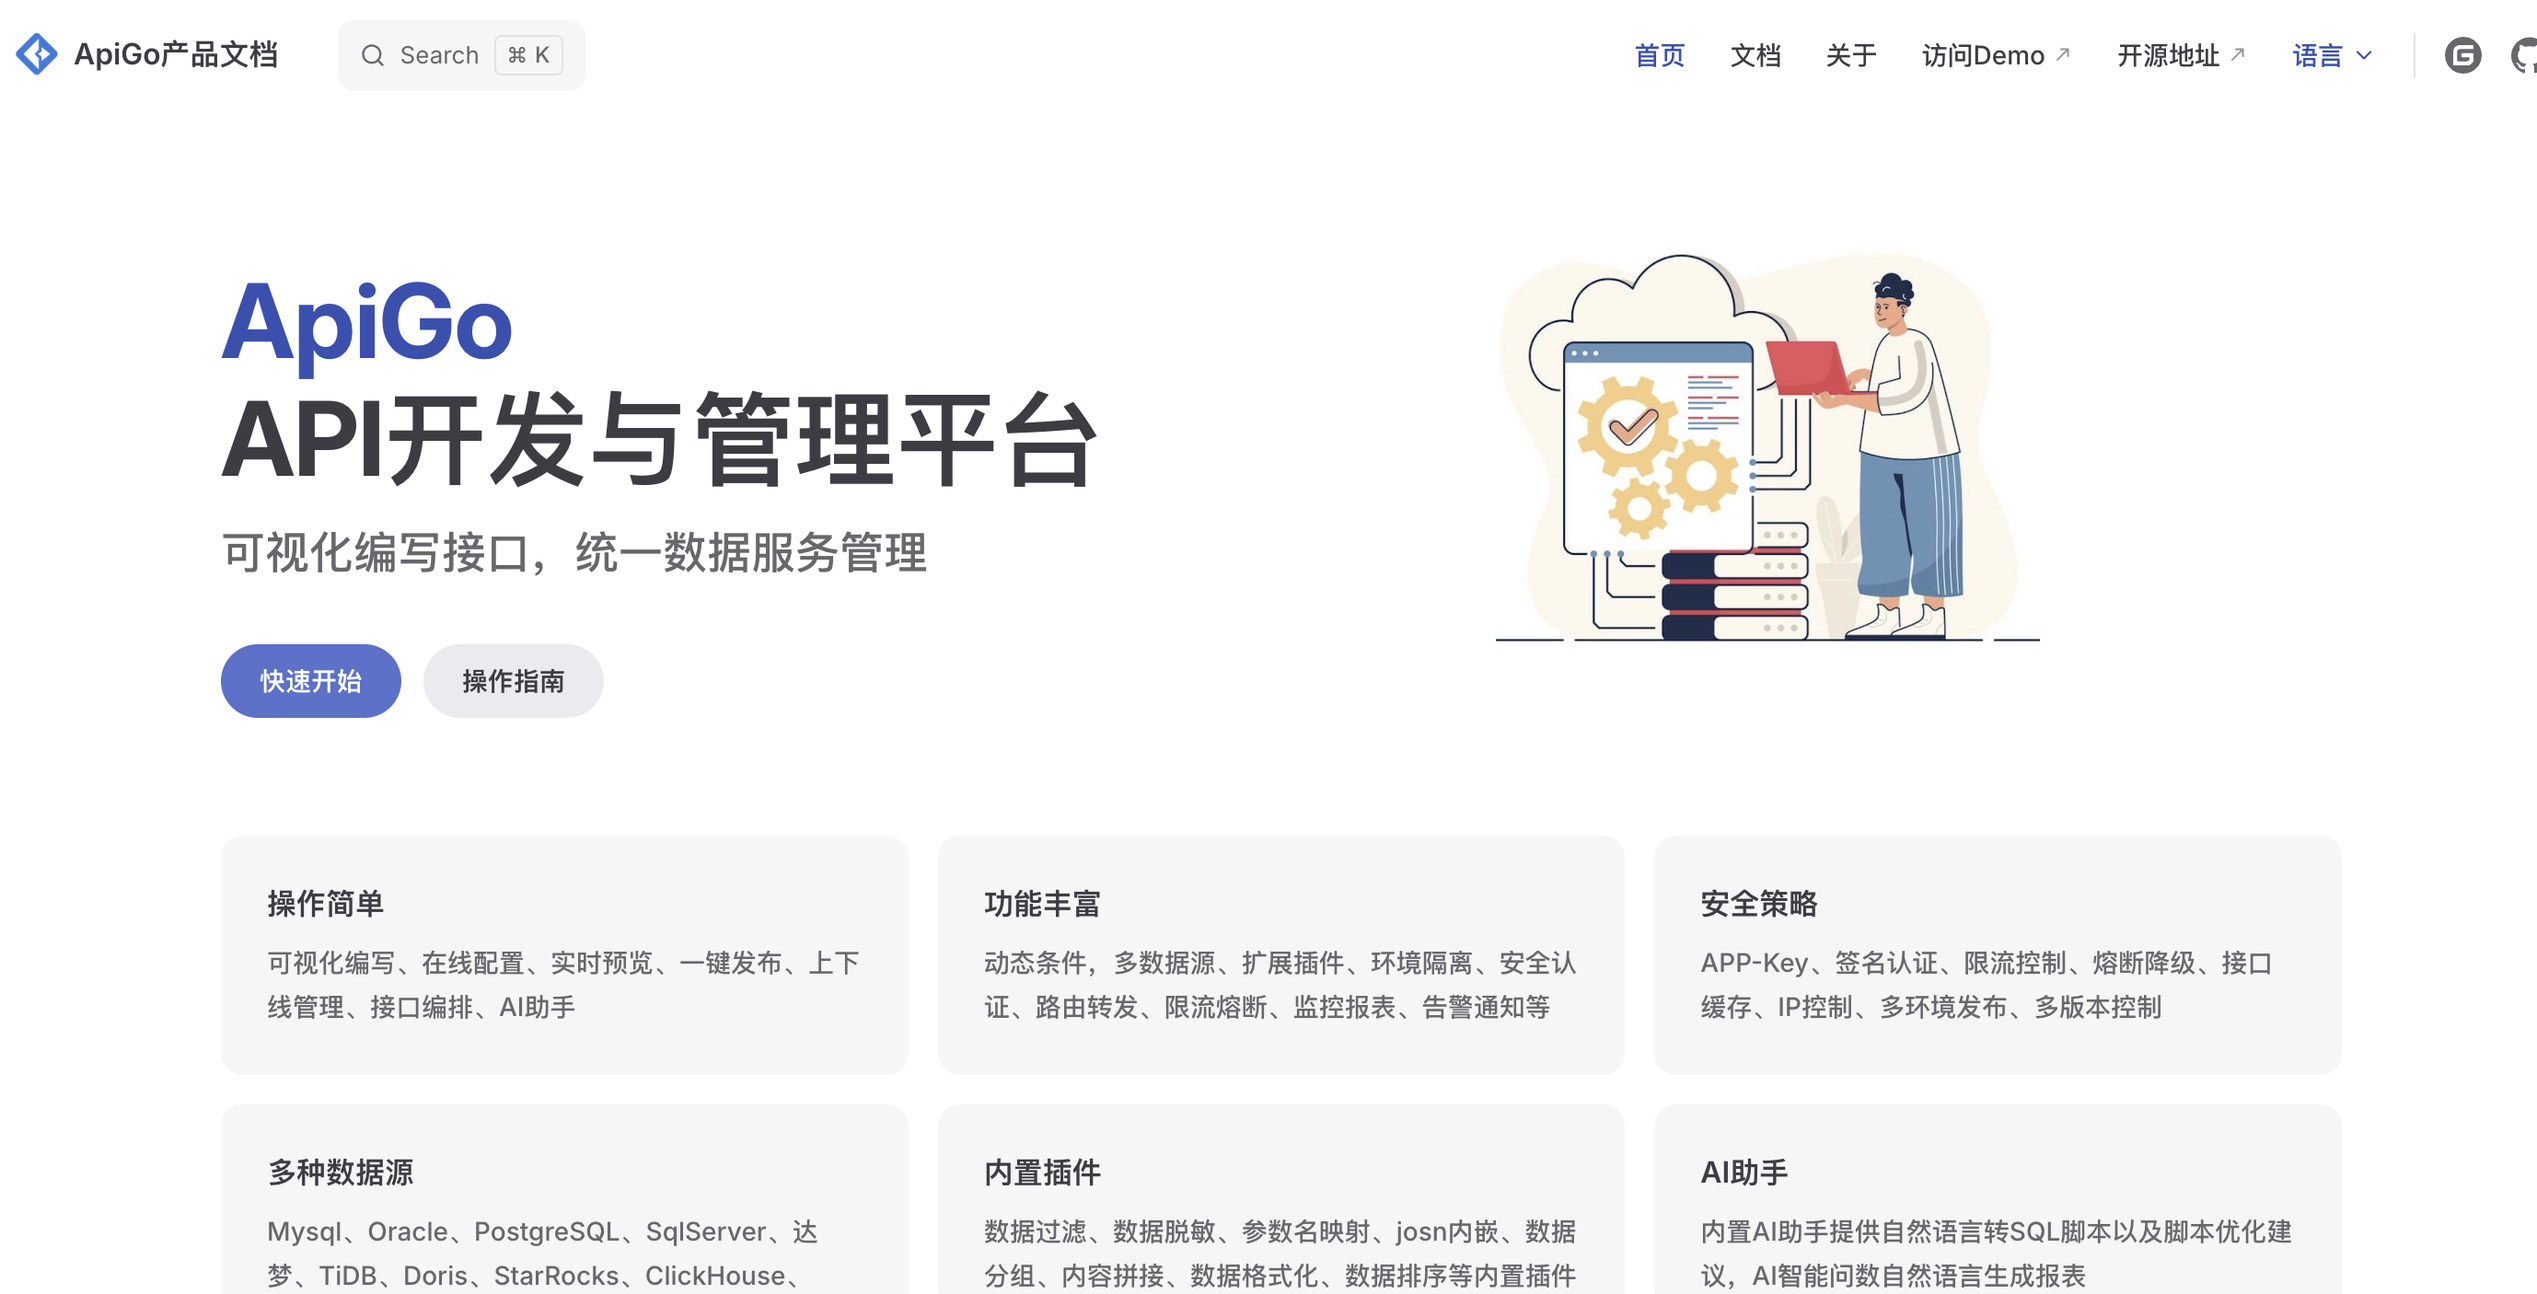
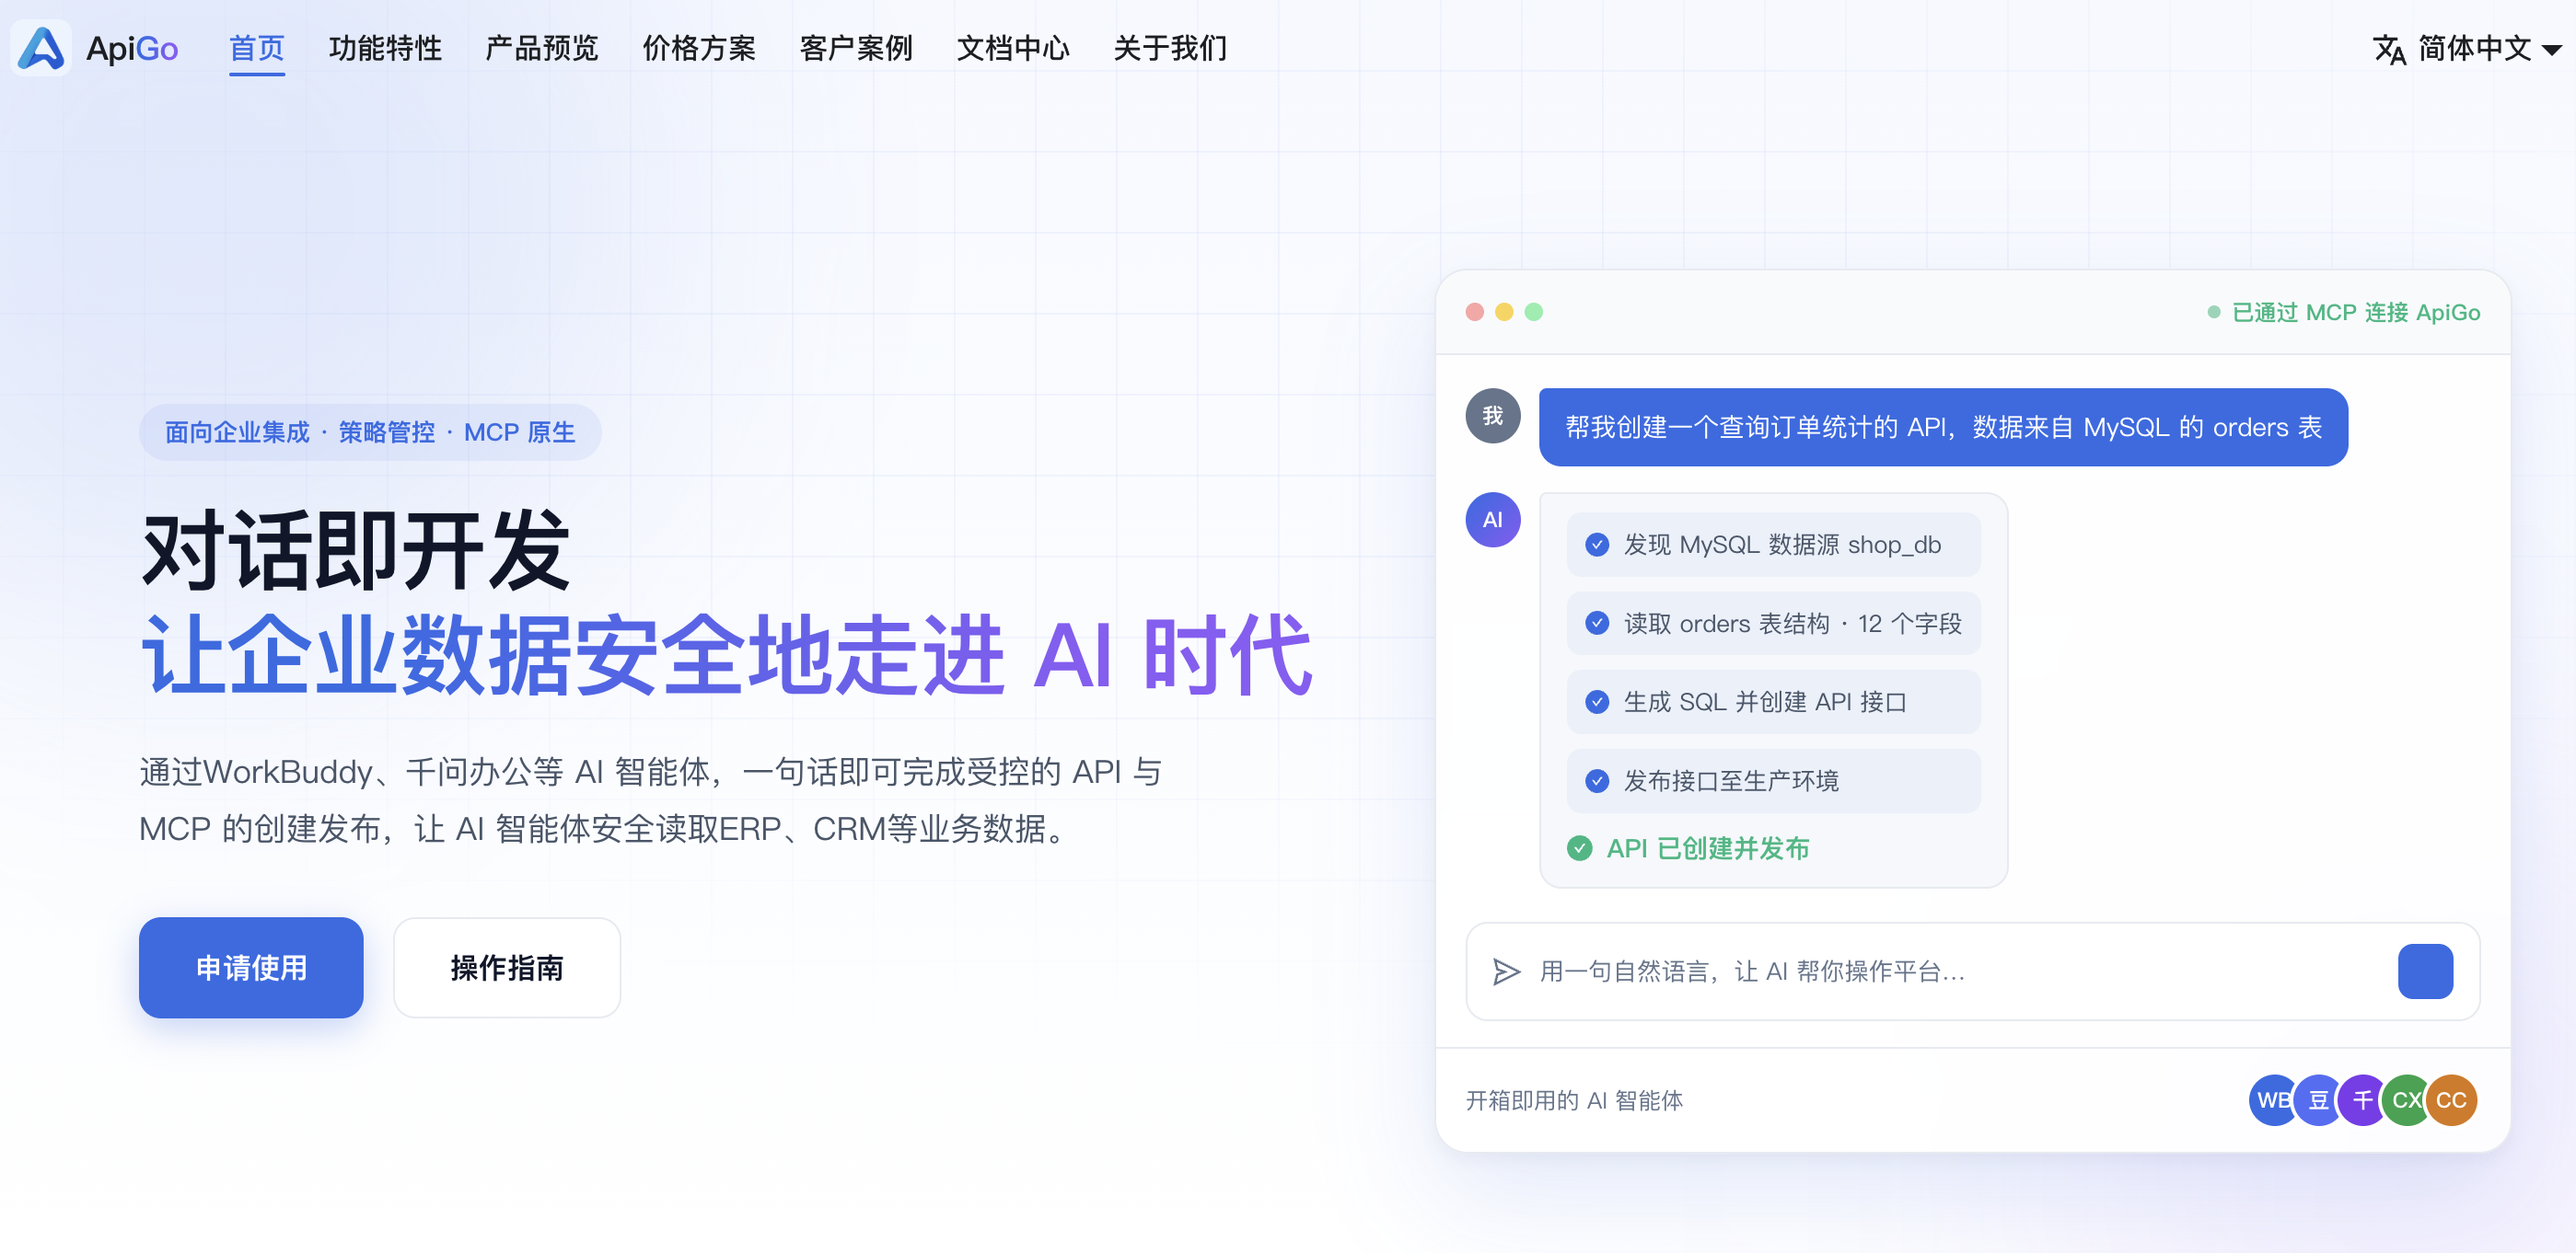
更新图标

diff --git a/README_EN.md b/README_EN.md
@@ -18,7 +18,7 @@ After writing SQL online with visual tooling, you can instantly generate an API 
 It supports MyBatis tag syntax (e.g. `if`), data masking, data transformation, national cryptographic encryption, collaborative development, API orchestration and more. It can be integrated with microservice gateways to support third-party APIs, authentication, rate limiting, caching, alerting/monitoring and unified logging — a one-stop API data service that
 helps enterprises upgrade the value of their data assets and becomes an important driver of digital transformation.
 
-![img.png](doc/home.png)
+![img.png](doc/home2.png)
 ## Community Edition Features
 - **Workbench**: Visually write SQL and publish it as an API endpoint. Supports executing multiple SQL statements at once and MyBatis tag syntax for dynamic SQL and dynamic tags.
 - **Data Source**: Data source list and data query, supporting a wide range of SQL/NoSQL databases.
